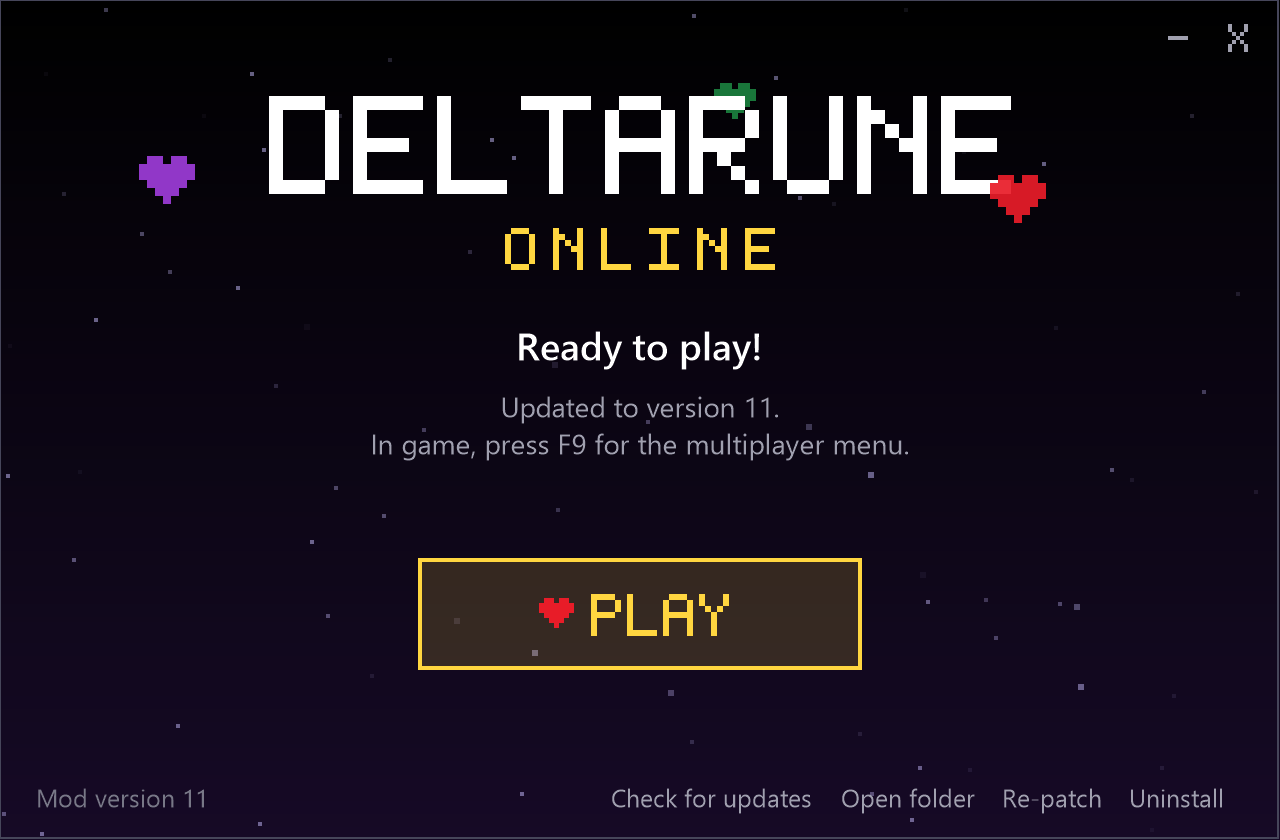
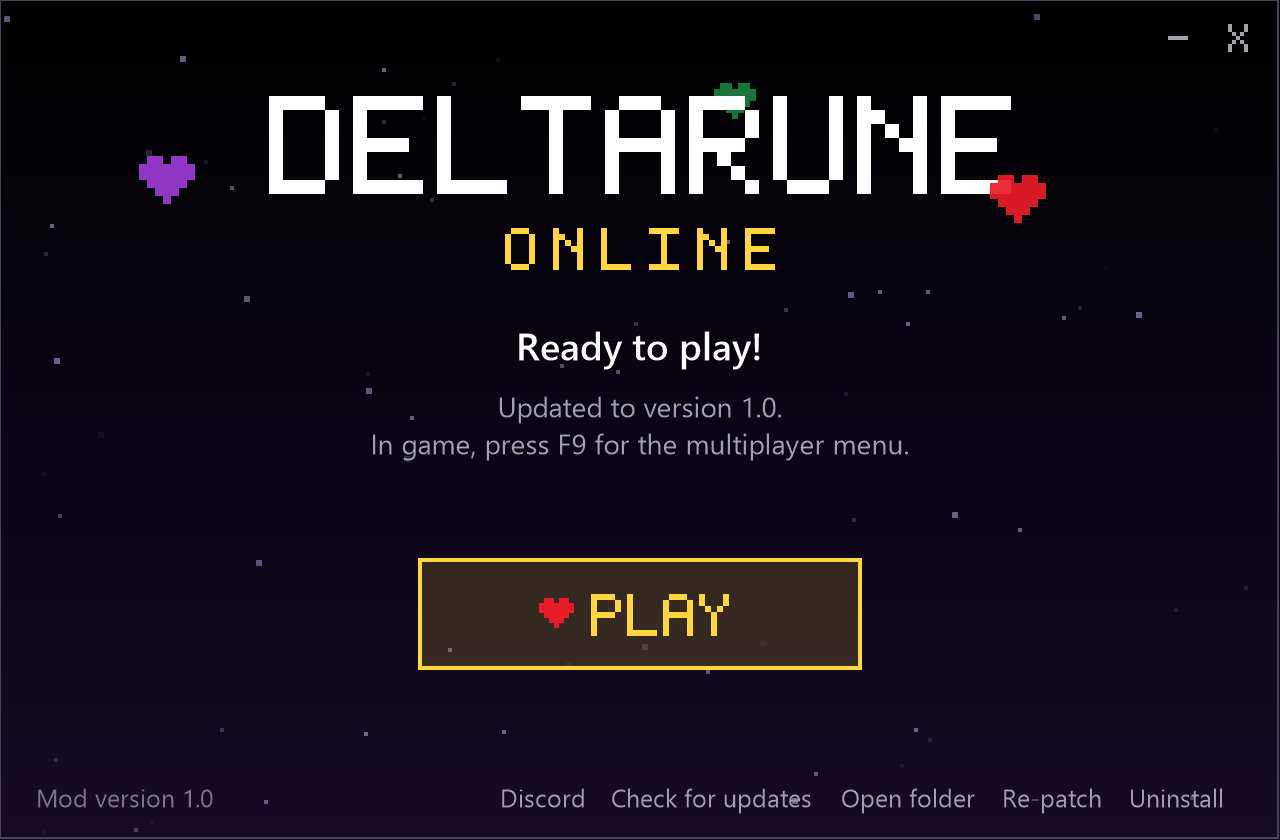
1.0: version names for players, Discord links
The launcher shows the release name (version_name.txt, e.g. 1.0) instead of the build number,
which still decides what is newer. latest.txt on GitHub is now "<zip> <build>", so public zips
can be named DeltaruneOnline-1.0.zip; the old "DeltaruneOnline-v<build>.zip" form still works.
A Discord link is in the launcher footer, the README, READ ME FIRST and the F9 credits.

Changed region(s): [[0.375, 0.4643, 0.625, 0.4952], [0.375, 0.9286, 0.4688, 0.9595]]

diff --git a/launcher/Core.cs b/launcher/Core.cs
@@ -19,7 +19,17 @@ namespace DeltaruneOnline
     class Release
     {
         public string Name;
-        public int Version;
+        public int Version;   // build number, only ever goes up
+        // What players see: "1.0" from DeltaruneOnline-1.0.zip, or the build number for DeltaruneOnline-v12.zip.
+        public string Label
+        {
+            get
+            {
+                var m = Regex.Match(Name ?? "", @"^DeltaruneOnline-(.+)\.zip$", RegexOptions.IgnoreCase);
+                if (!m.Success || Regex.IsMatch(m.Groups[1].Value, @"^v\d+$", RegexOptions.IgnoreCase)) return Version.ToString();
+                return m.Groups[1].Value;
+            }
+        }
         public string Url;    // a direct download (GitHub release)
         public string Id;     // or a Google Drive file id
         public string Path;   // or a local file (testing)
@@ -105,6 +115,23 @@ namespace DeltaruneOnline
         }
 
         public int AppVersion => ReadVersion(App);
+
+        // The version players see (version_name.txt in the package, e.g. "1.0"); the build number if there's none.
+        public string AppVersionName
+        {
+            get
+            {
+                try
+                {
+                    var n = File.ReadAllText(Path.Combine(App, "version_name.txt")).Trim();
+                    if (n != "") return n;
+                }
+                catch { }
+                return AppVersion.ToString();
+            }
+        }
+
+        public const string DiscordUrl = "https://discord.gg/GRX6XbTYRG";
         public bool IsInstalled => AppVersion > 0 && File.Exists(Path.Combine(App, "patcher", "drm-patcher.exe"));
         public bool CanPlay => File.Exists(Path.Combine(Game, "DELTARUNE.exe")) && Get("patched") != "";
 
@@ -288,10 +315,17 @@ namespace DeltaruneOnline
                 // so there is no hourly request limit.
                 var repo = Regex.Replace(gh.Groups[2].Value, @"\.git$", "");
                 var basis = $"https://github.com/{gh.Groups[1].Value}/{repo}/releases/latest/download/";
-                var name = GetText(basis + "latest.txt").Split('\n')[0].Trim();
-                var m = NameRx.Match(name);
-                if (!m.Success) throw new Exception("GitHub's latest release doesn't name a DeltaruneOnline zip");
-                list.Add(new Release { Name = name, Version = int.Parse(m.Groups[1].Value), Url = basis + name });
+                // latest.txt: "<zip name> <build number>", e.g. "DeltaruneOnline-1.0.zip 12".
+                // (Older releases had only "DeltaruneOnline-v<build>.zip".)
+                var parts = GetText(basis + "latest.txt").Split('\n')[0].Trim().Split(new[] { ' ', '\t' }, StringSplitOptions.RemoveEmptyEntries);
+                if (parts.Length == 0 || !parts[0].StartsWith("DeltaruneOnline-", StringComparison.OrdinalIgnoreCase) || !parts[0].EndsWith(".zip", StringComparison.OrdinalIgnoreCase))
+                    throw new Exception("GitHub's latest release doesn't name a DeltaruneOnline zip");
+                int build;
+                var m = NameRx.Match(parts[0]);
+                if (parts.Length > 1 && int.TryParse(parts[1], out build)) { }
+                else if (m.Success) build = int.Parse(m.Groups[1].Value);
+                else throw new Exception("GitHub's latest release has no build number");
+                list.Add(new Release { Name = parts[0], Version = build, Url = basis + parts[0] });
                 return list;
             }
             var id = Regex.Match(feed, @"(?:folders/|[?&]id=)([\w-]{10,})");
@@ -479,8 +513,8 @@ namespace DeltaruneOnline
             var staging = Path.Combine(Root, "staging");
             try
             {
-                Download(rel, zip, $"Downloading version {rel.Version}...");
-                Report($"Unpacking version {rel.Version}...", "", -1);
+                Download(rel, zip, $"Downloading version {rel.Label}...");
+                Report($"Unpacking version {rel.Label}...", "", -1);
                 DeleteDir(staging);
                 Extract(zip, staging);
                 var ver = Directory.GetFiles(staging, "version.txt", SearchOption.AllDirectories).OrderBy(f => f.Length).FirstOrDefault();

diff --git a/launcher/MainForm.cs b/launcher/MainForm.cs
@@ -168,7 +168,7 @@ namespace DeltaruneOnline
 
         void Repatch()
         {
-            Run(() => { core.ForgetPatch(); core.PatchGame(); return $"Patched again. Mod version {core.AppVersion}."; }, false);
+            Run(() => { core.ForgetPatch(); core.PatchGame(); return $"Patched again. Mod version {core.AppVersionName}."; }, false);
         }
 
         void Uninstall()
@@ -322,14 +322,14 @@ namespace DeltaruneOnline
                     if (core.FailedChapters > 0) d += $" {core.FailedChapters} chapter(s) couldn't be patched and play without multiplayer.";
                     Detail(g, d + "\nIn game, press F9 for the multiplayer menu.");
                     MainButton(g, "PLAY", Play);
-                    Footer(g, $"Mod version {core.AppVersion}");
+                    Footer(g, $"Mod version {core.AppVersionName}");
                     break;
                 case Screen.Error:
                     Status(g, "Something went wrong.", Red);
                     Detail(g, error);
                     MainButton(g, "TRY AGAIN", () => retry?.Invoke());
                     if (core.CanPlay) Link(g, "playanyway", "Play the version you have", W / 2f, 352, Play, true);
-                    Footer(g, core.IsInstalled ? $"Mod version {core.AppVersion}" : "");
+                    Footer(g, core.IsInstalled ? $"Mod version {core.AppVersionName}" : "");
                     break;
                 case Screen.Starting:
                     Status(g, "Have fun!", Color.White);
@@ -416,7 +416,8 @@ namespace DeltaruneOnline
                 ("uninstall", "Uninstall", Uninstall),
                 ("repatch", "Re-patch", Repatch),
                 ("folder", "Open folder", () => Process.Start("explorer.exe", "\"" + core.Root + "\"")),
-                ("check", "Check for updates", () => StartUpdate(true)) })
+                ("check", "Check for updates", () => StartUpdate(true)),
+                ("discord", "Discord", () => { try { Process.Start(Core.DiscordUrl); } catch { } }) })
             {
                 x -= g.MeasureString(text, fSmall).Width + 8;
                 Link(g, id, text, x, H - 30, act, false);
@@ -452,7 +453,7 @@ namespace DeltaruneOnline
             Shot("nogame", Screen.NoGame);
             Shot("busy_copy", Screen.Busy, () => core.Report("Copying the game...", "412 of 1034 MB  (your Steam copy is left alone)", 0.4));
             Shot("busy_check", Screen.Busy, () => core.Report("Checking for updates...", "", -1));
-            Shot("ready", Screen.Ready, () => f.note = "Updated to version 11.");
+            Shot("ready", Screen.Ready, () => f.note = "Updated to version 1.0.");
             Shot("error", Screen.Error, () => f.error = "Couldn't download the mod: The remote name could not be resolved: 'github.com'. Check your internet connection.");
             Shot("starting", Screen.Starting);
         }

diff --git a/launcher/Flow.cs b/launcher/Flow.cs
@@ -23,7 +23,7 @@ namespace DeltaruneOnline
             core.PlaceLauncher();
             core.CreateShortcuts();
             core.PatchGame();
-            return $"Installed version {core.AppVersion}. There's a DELTARUNE Online shortcut on your desktop now.";
+            return $"Installed version {core.AppVersionName}. There's a DELTARUNE Online shortcut on your desktop now.";
         }
 
         // Every start: install a newer version if there is one, then re-patch if the mod or the game changed.
@@ -38,21 +38,21 @@ namespace DeltaruneOnline
                 try
                 {
                     var newest = core.Newest();
-                    if (newest == null || newest.Version <= core.AppVersion) note = $"Mod version {core.AppVersion}, up to date.";
-                    else if (core.GameRunning()) note = $"Version {newest.Version} is out. Close the game and open this again to update.";
+                    if (newest == null || newest.Version <= core.AppVersion) note = $"Mod version {core.AppVersionName}, up to date.";
+                    else if (core.GameRunning()) note = $"Version {newest.Label} is out. Close the game and open this again to update.";
                     else
                     {
                         core.InstallRelease(newest);
-                        note = $"Updated to version {core.AppVersion}.";
+                        note = $"Updated to version {core.AppVersionName}.";
                     }
                 }
                 catch (Exception e)
                 {
                     core.Log("update check: " + e.Message);
-                    note = $"Couldn't check for updates ({Short(e.Message)}). Mod version {core.AppVersion}.";
+                    note = $"Couldn't check for updates ({Short(e.Message)}). Mod version {core.AppVersionName}.";
                 }
             }
-            else note = $"Updated to version {core.AppVersion}.";
+            else note = $"Updated to version {core.AppVersionName}.";
             try { restart = core.PlaceLauncher(); }
             catch (Exception e) { core.Log("launcher update: " + e.Message); }
             if (restart) return note;

diff --git a/docs/mod-page.md b/docs/mod-page.md
@@ -8,6 +8,8 @@ Paste the parts below into the site's fields. Screenshots are in `docs/screensho
 
 DELTARUNE Online: Co-op Multiplayer (Beta)
 
+Version: 1.0 (beta)
+
 ## Short description (one line)
 
 Play all of DELTARUNE together online: each friend controls a party member, dodges with their own SOUL, and talks over proximity voice chat.
@@ -75,7 +77,9 @@ Saves are kept separately in `%LOCALAPPDATA%\DELTARUNE_ONLINE`. To use your norm
 - Platforming sections show everyone as Kris.
 - If the host leaves, the session ends.
 
-**Reporting a bug:** describe what happened and attach `multiplayer_log.txt` from `%LOCALAPPDATA%\DELTARUNE_ONLINE`.
+**Discord:** https://discord.gg/GRX6XbTYRG for help, bug reports and finding people to play with.
+
+**Reporting a bug:** post in the Discord (or the comments) what happened and attach `multiplayer_log.txt` from `%LOCALAPPDATA%\DELTARUNE_ONLINE`.
 
 ## Credits
 

diff --git a/README.md b/README.md
@@ -12,6 +12,8 @@ By traebon. Based on [DELTARUNE Multiplayer](https://github.com/AeEn123AI/deltar
 Open it and click **INSTALL**. It updates itself from then on. See [Installing](#installing) and [Playing](#playing).
 All versions are on the [Releases page](https://github.com/traeb0n/deltarune-online/releases).
 
+**Discord:** [discord.gg/GRX6XbTYRG](https://discord.gg/GRX6XbTYRG): help, bug reports and people to play with.
+
 ## Screenshots
 
 ![Three players dodging in a Chapter 5 battle, each with their own SOUL](docs/screenshots/01_ch5_three_player_battle.png)
